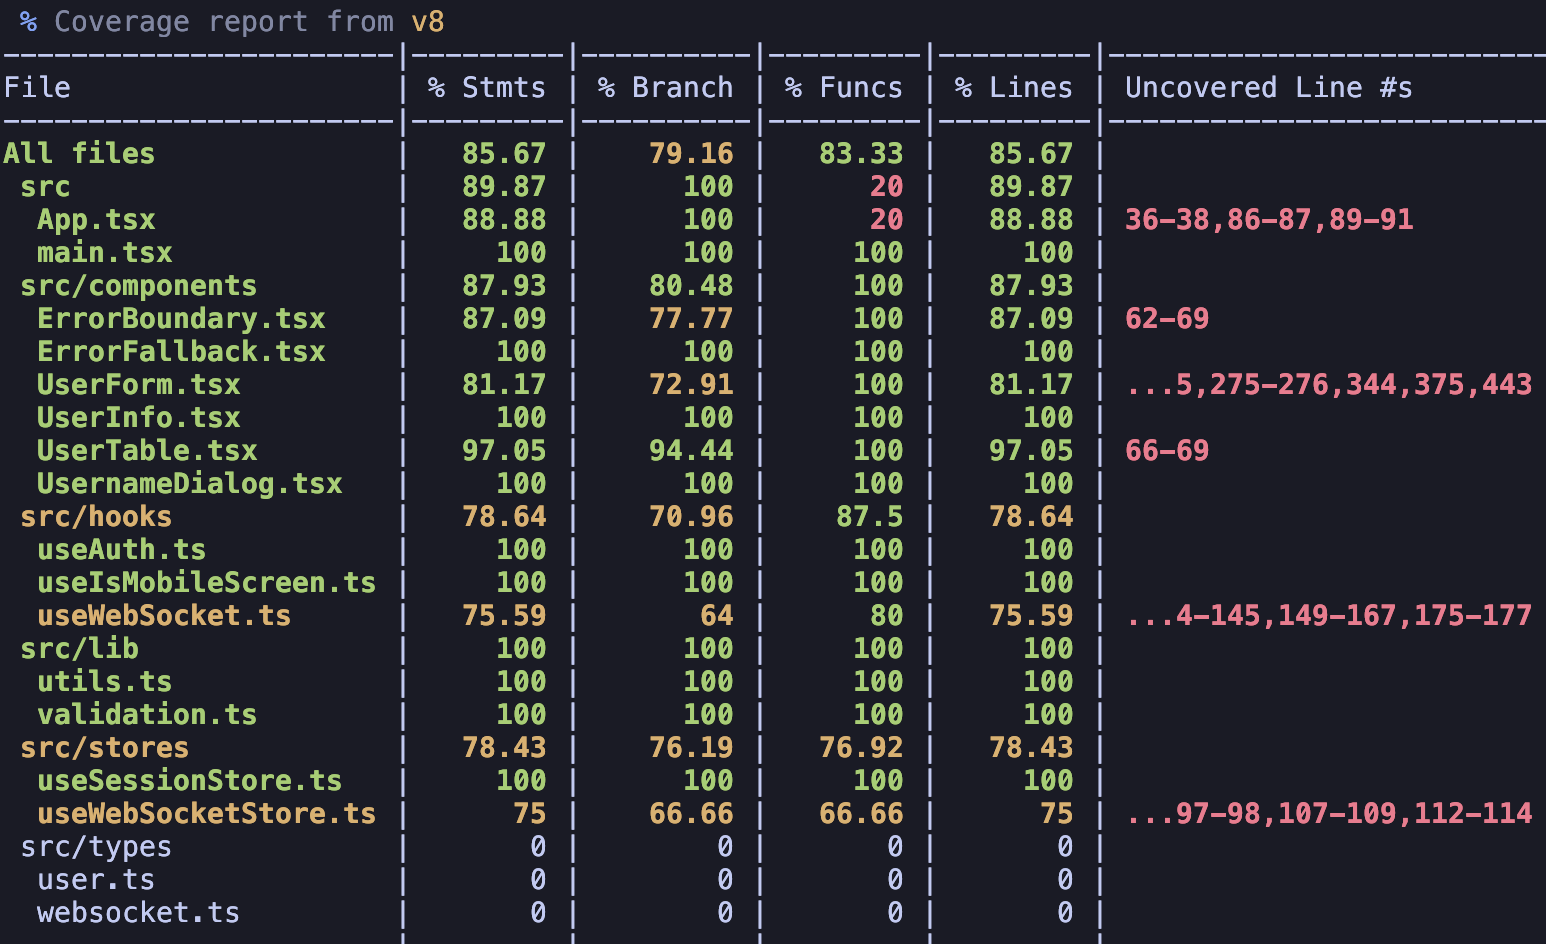
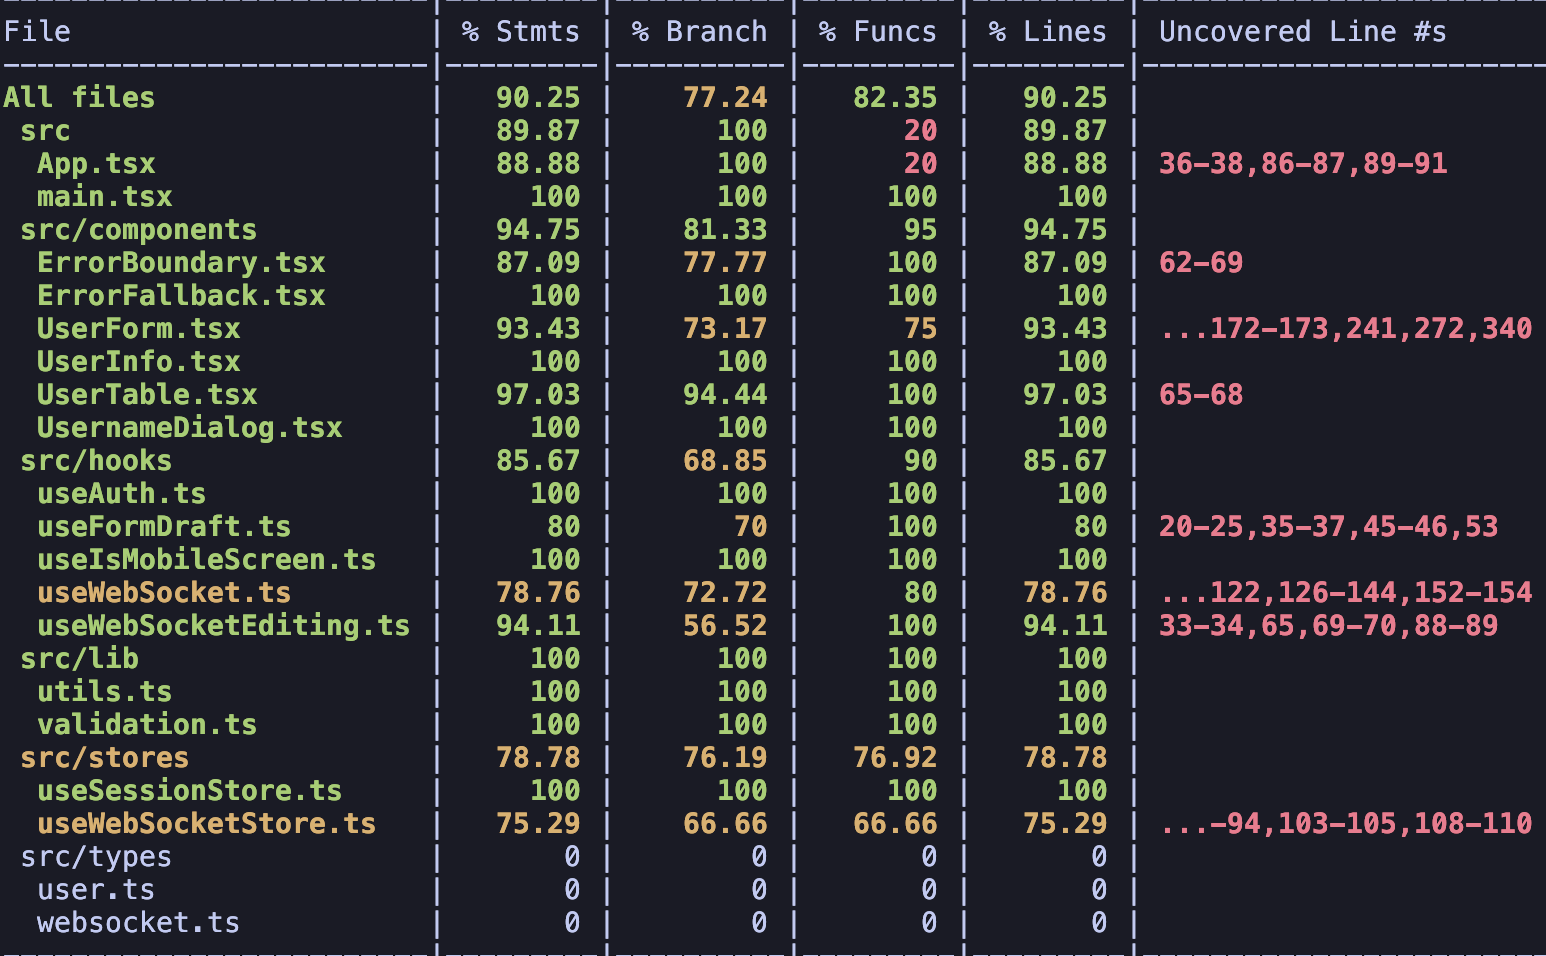
docs: update test status

diff --git a/README.md b/README.md
@@ -22,7 +22,7 @@ This project showcases a production-ready SPA architecture built with React and 
 🌟 Key Accomplishments
 
 - Responsive Design: Ensures optimal user experience across all devices, reflecting a product-centric development approach.
-- Exceptional Test Coverage (80%+): Achieved through comprehensive unit tests, significantly reducing potential bugs and enhancing long-term maintainability.
+- Exceptional Test Coverage (90%+): Achieved through comprehensive unit tests, significantly reducing potential bugs and enhancing long-term maintainability.
 - Reliable User Experience: Validated the critical login flow across all major browsers (Chrome, Safari, Edge) on both desktop and mobile using Playwright E2E tests.
 - Superior Code Quality (SonarQube All A Rating): Rigorous analysis confirms high standards in Security, Reliability, and Maintainability, minimizing technical debt and ensuring a healthy codebase.
 - Automated CI/CD Pipeline (GitHub Actions, SonarQube, Codecov, Vercel): Establishes a streamlined, production-ready deployment process, ensuring rapid, reliable, and high-quality releases.
@@ -90,7 +90,7 @@ pnpm build
 ### 📊 Testing Strategy
 
 - Unit Tests: Focused on critical store logic, complex form validations, and isolated component behaviors, ensuring granular code reliability.
-- Coverage: Maintained above 80% (verified via `vitest run --coverage`), reflecting a commitment to robust code coverage without sacrificing test quality.
+- Coverage: Maintained above 90% (verified via `vitest run --coverage`), reflecting a commitment to robust code coverage without sacrificing test quality.
 
 <img src="./public/screenshots/test coverage.png" alt="Test Coverage" width="723" height="472">
 
